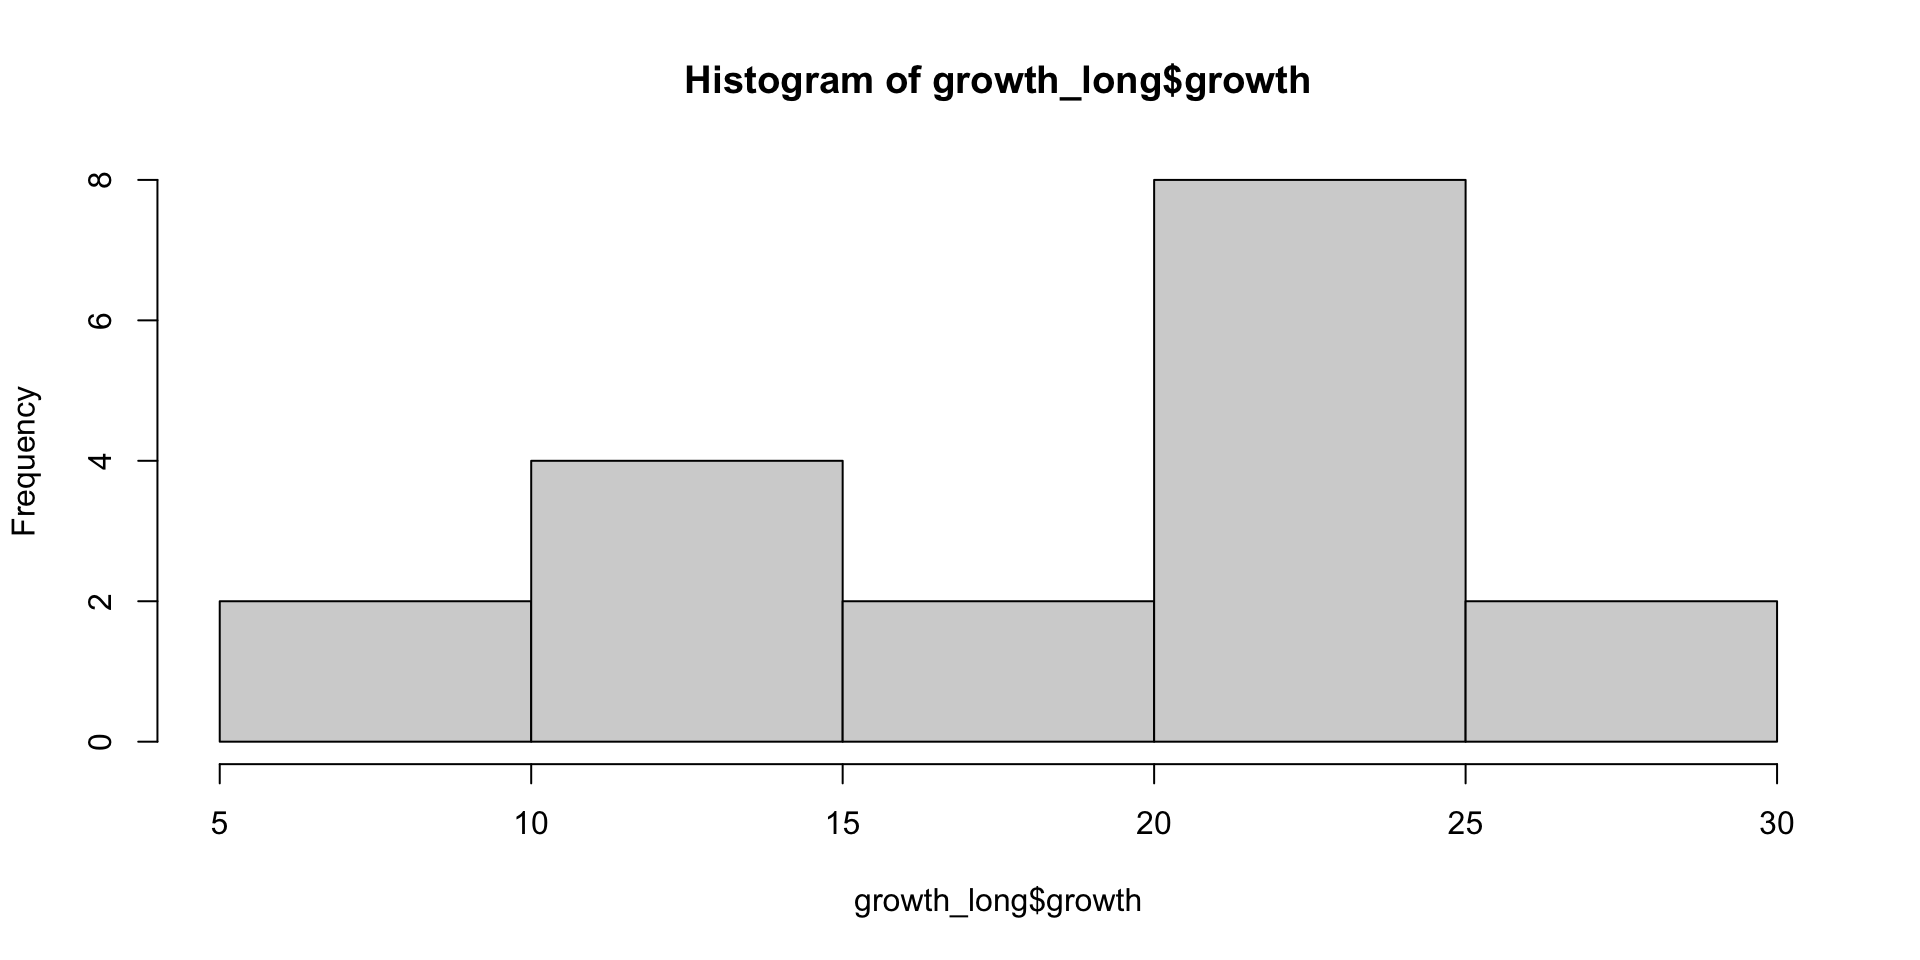
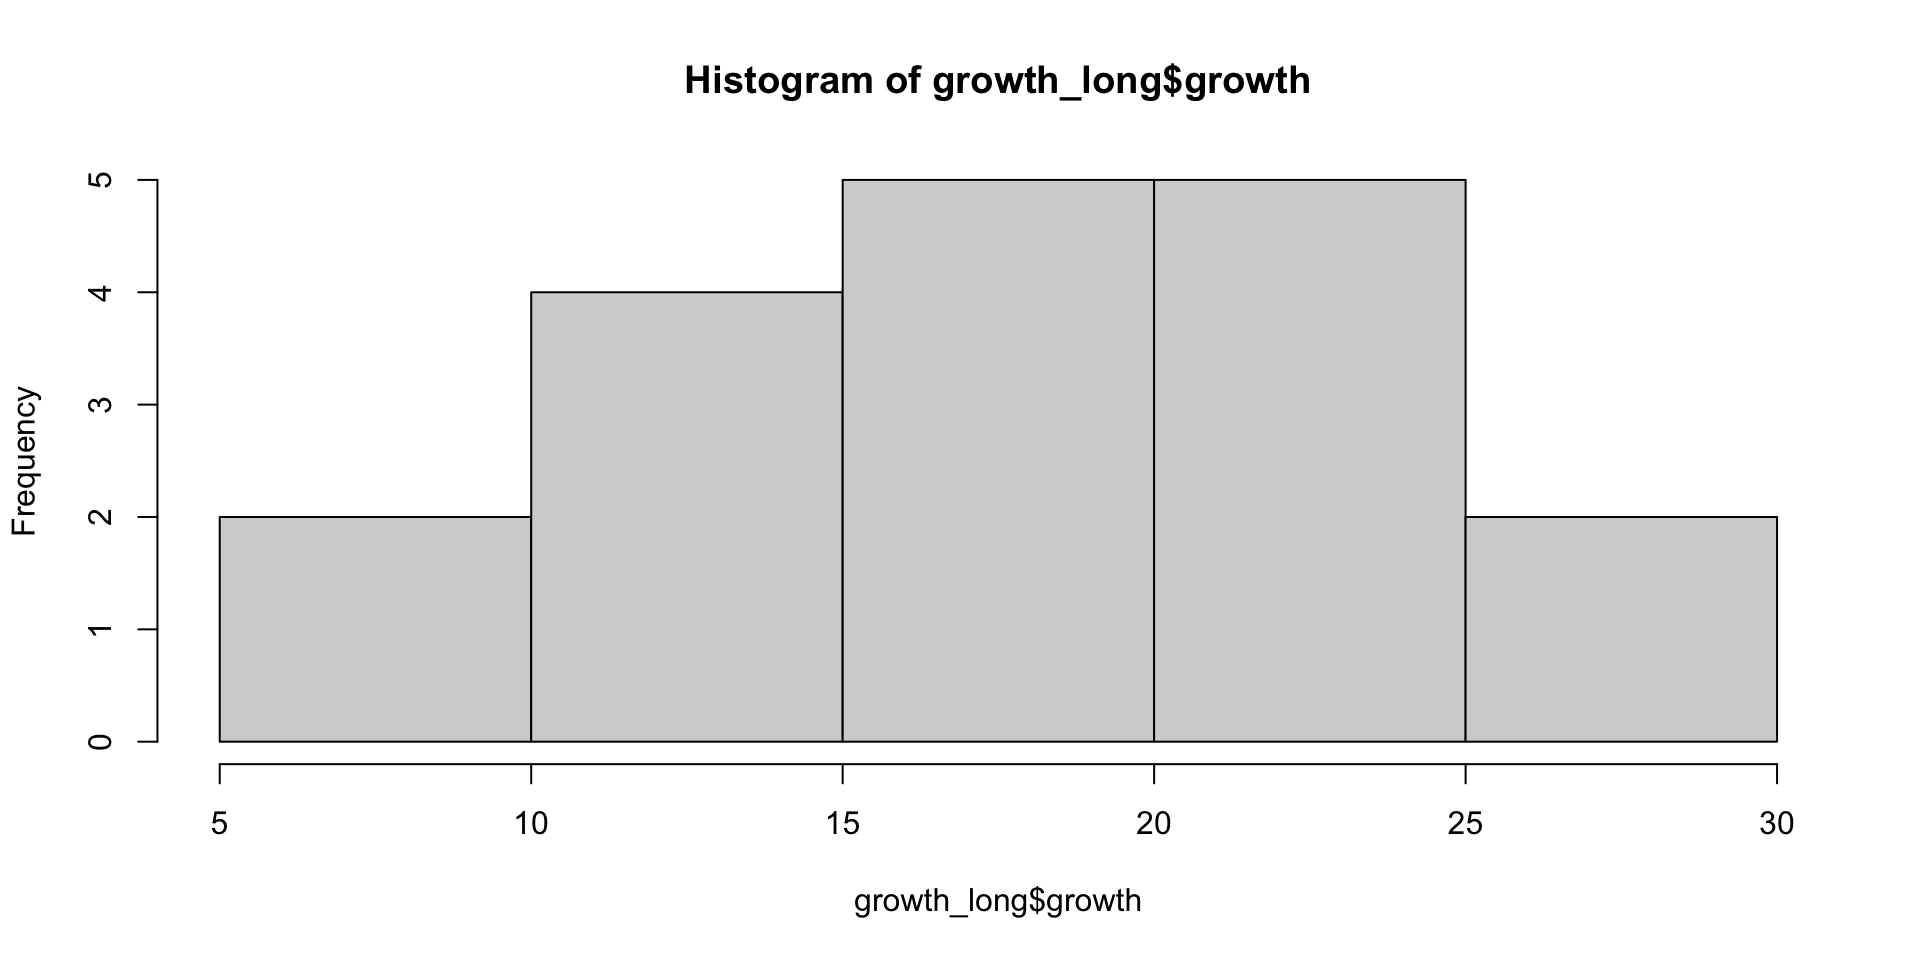
data update

diff --git a/docs/r.html b/docs/r.html
@@ -447,18 +447,18 @@ Nicole Harms
 <div class="cell">
 <div class="sourceCode cell-code" id="cb1"><pre class="sourceCode numberSource r number-lines code-with-copy"><code class="sourceCode r"><span id="cb1-1"><a></a><span class="co"># Reading in data</span></span>
 <span id="cb1-2"><a></a>growth <span class="ot">&lt;-</span> <span class="fu">data.frame</span>(<span class="at">plant =</span> <span class="fu">c</span>(<span class="st">"plant 1"</span>,<span class="st">"plant 2"</span>,<span class="st">"plant 3"</span>,<span class="st">"plant 4"</span>,<span class="st">"plant 5"</span>,<span class="st">"plant6"</span>),</span>
-<span id="cb1-3"><a></a>                     <span class="at">low =</span> <span class="fu">c</span>(<span class="fl">9.44</span>,<span class="fl">10.94</span>,<span class="fl">14.67</span>,<span class="fl">17.22</span>,<span class="fl">14.75</span>,<span class="fl">8.47</span>),</span>
-<span id="cb1-4"><a></a>                     <span class="at">medium =</span> <span class="fu">c</span>(<span class="fl">12.18</span>,<span class="fl">24.28</span>,<span class="fl">18.68</span>,<span class="fl">21.53</span>,<span class="fl">23.68</span>,<span class="fl">20.51</span>),</span>
-<span id="cb1-5"><a></a>                     <span class="at">high =</span> <span class="fu">c</span>(<span class="fl">28.05</span>,<span class="fl">23.42</span>,<span class="fl">24.58</span>,<span class="fl">27.25</span>,<span class="fl">20.50</span>,<span class="fl">24.57</span>))</span>
+<span id="cb1-3"><a></a>                     <span class="at">low =</span> <span class="fu">c</span>(<span class="fl">18.51</span>,<span class="fl">5.99</span>,<span class="fl">7.06</span>,<span class="fl">14.02</span>,<span class="fl">14.96</span>,<span class="fl">13.56</span>),</span>
+<span id="cb1-4"><a></a>                     <span class="at">medium =</span> <span class="fu">c</span>(<span class="fl">19.19</span>,<span class="fl">19.09</span>,<span class="fl">17.90</span>,<span class="fl">21.47</span>,<span class="fl">20.38</span>,<span class="fl">14.58</span>),</span>
+<span id="cb1-5"><a></a>                     <span class="at">high =</span> <span class="fu">c</span>(<span class="fl">19.23</span>,<span class="fl">24.27</span>,<span class="fl">27.34</span>,<span class="fl">22.23</span>,<span class="fl">22.92</span>,<span class="fl">28.77</span>))</span>
 <span id="cb1-6"><a></a>growth</span></code><button title="Copy to Clipboard" class="code-copy-button"><i class="bi"></i></button></pre></div>
 <div class="cell-output cell-output-stdout">
 <pre><code>    plant   low medium  high
-1 plant 1  9.44  12.18 28.05
-2 plant 2 10.94  24.28 23.42
-3 plant 3 14.67  18.68 24.58
-4 plant 4 17.22  21.53 27.25
-5 plant 5 14.75  23.68 20.50
-6  plant6  8.47  20.51 24.57</code></pre>
+1 plant 1 18.51  19.19 19.23
+2 plant 2  5.99  19.09 24.27
+3 plant 3  7.06  17.90 27.34
+4 plant 4 14.02  21.47 22.23
+5 plant 5 14.96  20.38 22.92
+6  plant6 13.56  14.58 28.77</code></pre>
 </div>
 </div>
 <div class="fragment">
@@ -490,12 +490,12 @@ Nicole Harms
 <pre><code># A tibble: 6 × 3
   plant   light_level growth
   &lt;chr&gt;   &lt;chr&gt;        &lt;dbl&gt;
-1 plant 1 low           9.44
-2 plant 1 medium       12.2 
-3 plant 1 high         28.0 
-4 plant 2 low          10.9 
-5 plant 2 medium       24.3 
-6 plant 2 high         23.4 </code></pre>
+1 plant 1 low          18.5 
+2 plant 1 medium       19.2 
+3 plant 1 high         19.2 
+4 plant 2 low           5.99
+5 plant 2 medium       19.1 
+6 plant 2 high         24.3 </code></pre>
 </div>
 </div>
 </section>
@@ -573,8 +573,8 @@ Nicole Harms
 
 Response: growth
             Df Sum Sq Mean Sq F value    Pr(&gt;F)    
-light_level  2 451.49 225.743  17.426 0.0001225 ***
-Residuals   15 194.31  12.954                      
+light_level  2 417.19  208.60  15.126 0.0002531 ***
+Residuals   15 206.86   13.79                      
 ---
 Signif. codes:  0 '***' 0.001 '**' 0.01 '*' 0.05 '.' 0.1 ' ' 1</code></pre>
 </div>
@@ -610,12 +610,12 @@ Signif. codes:  0 '***' 0.001 '**' 0.01 '*' 0.05 '.' 0.1 ' ' 1</code></pre>
 <pre><code># A tibble: 6 × 4
   plant fertilizer light_level growth
   &lt;int&gt; &lt;chr&gt;      &lt;chr&gt;        &lt;dbl&gt;
-1     1 Y          low           9.44
-2     1 Y          medium       12.2 
-3     1 Y          high         28.0 
-4     2 N          low          10.9 
-5     2 N          medium       24.3 
-6     2 N          high         23.4 </code></pre>
+1     1 Y          low          18.5 
+2     1 Y          medium       19.2 
+3     1 Y          high         19.2 
+4     2 N          low           5.99
+5     2 N          medium       19.1 
+6     2 N          high         24.3 </code></pre>
 </div>
 </div>
 </section>
@@ -630,10 +630,10 @@ Signif. codes:  0 '***' 0.001 '**' 0.01 '*' 0.05 '.' 0.1 ' ' 1</code></pre>
 
 Response: growth
                        Df Sum Sq Mean Sq F value    Pr(&gt;F)    
-light_level             2 451.49 225.743 15.9712 0.0004147 ***
-fertilizer              1   7.55   7.553  0.5344 0.4788032    
-light_level:fertilizer  2  17.15   8.573  0.6065 0.5611346    
-Residuals              12 169.61  14.134                      
+light_level             2 417.19 208.597 13.0163 0.0009866 ***
+fertilizer              1   0.68   0.684  0.0427 0.8397386    
+light_level:fertilizer  2  13.86   6.931  0.4325 0.6586154    
+Residuals              12 192.31  16.026                      
 ---
 Signif. codes:  0 '***' 0.001 '**' 0.01 '*' 0.05 '.' 0.1 ' ' 1</code></pre>
 </div>

diff --git a/docs/index.html b/docs/index.html
@@ -174,7 +174,7 @@ window.Quarto = {
 
 <div class="quarto-listing quarto-listing-container-grid" id="listing-listing">
 <div class="list grid quarto-listing-cols-3">
-<div class="g-col-1" data-index="0" data-listing-date-sort="1770616800000" data-listing-file-modified-sort="1770181654402" data-listing-date-modified-sort="NaN" data-listing-reading-time-sort="10" data-listing-word-count-sort="1817">
+<div class="g-col-1" data-index="0" data-listing-date-sort="1770616800000" data-listing-file-modified-sort="1770224090721" data-listing-date-modified-sort="NaN" data-listing-reading-time-sort="10" data-listing-word-count-sort="1817">
 <a href="./r.html" class="quarto-grid-link">
 <div class="quarto-grid-item card h-100 card-left">
 <div class="card-body post-contents">
